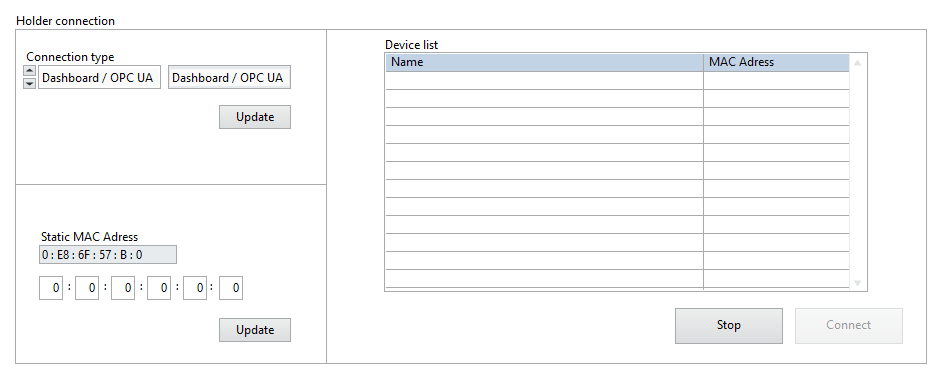
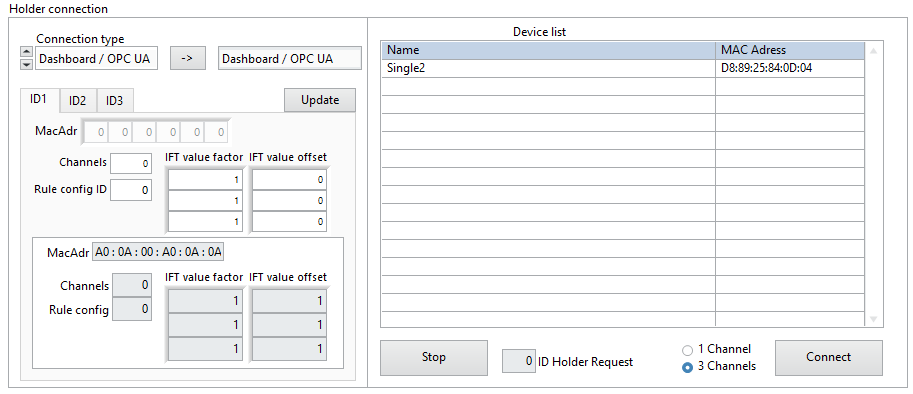
Updated till after modes

Changed region(s): [[0.0, 0.0, 1.0, 1.0]]

diff --git a/C-RIO Dashboard en.md b/C-RIO Dashboard en.md
@@ -52,7 +52,7 @@ The Dashboard contains four tabs: **Stability**, **Breakout detection**, **Raw d
 If the system is connected to a sensory tool holder, the identifier turns blue. After disconnection, it turns white again.
 ![connected_w](assets/disconnected.png)   <------->   ![connected_b](assets/connected.png)
 If no sensory tool holder is connected the fields for name and MAC-Address will be empty. When connected to a sensory tool holder the name and MAC-Address will show until disconnection.
-![connected_w](assets/disconnected-name.png)   <------->   ![connected_b](assets/connected-name.png)
+![connected_name_w](assets/disconnected-name.png)   <------->   ![connected_name_b](assets/connected-name.png)
 
 ### System Tab 	
 
@@ -84,53 +84,48 @@ This tab shows information about the CAN messages send between the system and th
 
 #### Connection types
 
+On the left side you can choose the connection type you want to use with the drop down menu. On the right side you can see the momentary active type. By pressing the "->" button between these two you can change the active type to the chosen type.
 ![connection_type](assets/connection_type.png)
+You can chose if you are using an one or 3 channel holder with the radio buttons below the list of found holders, with the exception of the "Static / DI" mode. Note that if you use the three channel option with a holder which only has one channel the other two channels will be useless signals from not connected PINs inside the holder. On the left side of the radio buttons you can see if a static connection request is set by the hardware connected digital inputs of the SPU.
+![channel_numbers](assets/channel_numbers.png)
 
 ##### Dashboard / OPC UA
 
-With this mode you can select the STH of your choice from the "Device list" and press “Connect”. With  “Stop”, you can disconnect from the STH. After disconnection the  Dashboard needs a few seconds before it starts searching for STHs again.
+With this mode you can select the STH of your choice from the "Device list" and press “Connect”. With  “Stop”, you can disconnect from the STH. After disconnection the Dashboard needs a few seconds before it starts searching for STHs again.
 
 ![halterauswahl](assets/Holder_Connection.png)
 
 ##### Static / DI
 
-In this connection mode you can define one static MAC-Address. Every holder has his own unique address. This address is shown on the right side of the device list. If this mode is selected and the holder with the defined MAC-Address is in range the system will automatically connect to this holder.
-
+In this connection mode you can define static MAC-Addresses. Every holder has his own unique address. This address is shown on the right side of the device list. If this mode is selected, the digital input on the hardware is set to "1" and the holder with the defined MAC-Address is in range the system will automatically connect to this holder.
+Up to three holders can be defined and connected via there digital inputs. The fields for configuration of the static connection mode can be found below the connection-mode selection.
 ![mac](assets/MAC_Adress.png)
-
-In newer versions of the Dashboard it is possible to connect to up to 3 different static MAC-Addresses. Which of the 3 defined holders is to be connected can be chosen by using the digital input port 6&7 of the SPU.
-
-![mac-new](assets/Connection_Holder.png)
-
+There are three tabs, one for each of the defined holders to configure. The upper part is used to change the parameters, the lower part (the one with the grey background) shows the momentary active state of the configuration. To write the changed configuration into the active part press the "Update" button on the top right. 
+The "MacAdr" is the MAC-Address of the holder you want to chose. You can see the Address on the right column of the holder list. With "Channels" you can define how many channels the holder has. If there is anything beside "1" inside this box it will take it that the holder has thee channels. With a "1" the SPU will connect to it as a holder with one channel. The "Rule config ID" box can be used to set a predefined ruling configuration to be used when connecting to this holder. With a "0" it will use the parameters which are set in the "Stability" tab at the moment. With the "IFT value factor" and the "IFT value offset" you can adapt the calculated IFT-value.
 ##### First available /DI
 
-In this mode the system will connect to the first holder it finds within its range. 
-
-##### Recording of multiple channels
-
-In newer versions of the Dashboard it is possible to record multiple channels simultaneously. (Given that the connected tool holder also is able to record multiple channels.) To choose between 1 and 3 channels use the radio button below the connection type drop down list.
+In this mode the system will connect to the first holder it finds within its range. When the digital input to enable the ruling is set.
 
 #### Configuration of tools and processes
 
+In the system tab you can see 2 additional tabs used to load preset configurations called "Rule Engine configs" and "Sensor configs". Pressing the "Load Rule" Button will load and apply the chosen configuration file. With this function you can define your parameters and load them via the press of a button. This has the advantage that you don't have to manually change all the parameters of the SPU and can use different defined configurations for different holders with different processes to be used in.
+![rule-config](assets/Rule_Engine_Config.PNG)
+
+![sensor-config](assets/Sensor_Config.PNG)
+
 **<u>IN DEVELOPMENT!!!!</u>**
+The rules and sensor configs can be edited via the following link:
+http://192.168.1.115:8000/MainConfig.html
+The configuration is working, but the design and user friendliness is **still in development!**
 
-In the system tab you can see 2 additional tabs used to load preset configurations called "Rule Engine confis" and "Sensor configs". With a press of the "Load config from USB" you can load then configuration file from a connected USB-Stick or a Micro-SD Card (Formatting ext4) into the SPU Unit. The XML Files with a predefined structure can be used to configure the rule engine and/or the sensory tool holder. Pressing the "Load config" Button will load and apply the chosen configuration file. With this function you can predefine your parameters and load them via the press of a button. This has the advantage that you don't have to manually change all the parameters after a reset of the SPU or change of process.
-
-A possible example looks like this:
-
-A sensory tool holder with a defined MAC address, single channel measurement, and Connection Type 1 (Dashboard / OPC UA = 0, Static / DI = 1, First available / DI = 2), which corresponds to an automatic connection, is defined in the configuration file. Additionally, a stability Rule Engine with all parameters for the corresponding cutting process and the respective Rule config ID 5 is set for this tool holder. If this Rule Engine ID is also loaded, the values contained in it will be inserted in the stability tab.
-
-**Currently, the feature is in the development phase**, so it is not yet possible to directly assign the respective sensory tools to assigned lines of tools for automatic tool selection based on digital inputs.
-
-![rule-config](assets/Rule Engine Config.PNG)
-
-![sensor-config](assets/Sensor Config.PNG)
-
+#### OPC-UA Server Address
+On the right side, beside the rule and sensor configs you can find the OPCUA-Server address of the SPU which you need if you want to connect via OPCUA with the SPU.
+![opcua](assets/opcua.png)
 ### Raw Data View Tab
 
 ![raw](assets/RawDataView.PNG)
 
-If this tab is chosen it will show the raw data of the connected sensory tool holder, depending if 1 or 3 channels were chosen, This is used if you want to plot the raw not computed signals of the tool holder.
+If this tab is chosen it will show the raw data of the connected sensory tool holder, depending if 1 or 3 channels were chosen you can see 1 or 3 signals. This is used if you want to plot the raw not computed signals of the tool holder. If you right-click the y-axis you can change from auto scale mode to defined values. 
 
 ### Breakout detection Tab
 
@@ -204,9 +199,12 @@ This graph shows the Sens and the Active lines. These are digital  information. 
 
 ![active](assets/active.png)
 
+#### Controls for the rule
+There are two buttons at the bottom of the screen. The "freigabe Regler" button can be used like the digital input which activates the rule engine. If you press the button it will change the name to "Regler freigegeben" and the "Sens" graph will change to 1. If you press it again it will change it's name back and the "Sens" graph will go back to 0. The "Reset Regler" button is only needed if the system is used in the "stop" mode.
+
 ## Stability-Parameters 					  			
 
-Depending on which mode is set active, different parameters can be  changed. To change said parameters to new values, press the "update"  Button on the bottom (with "Window length" being the only exception in  "Watch" mode).
+Depending on which mode is set active, different parameters can be  changed. To change said parameters to new values, press the "update" button on the bottom (with "Window length" being the only exception in  "Watch" mode).
 
 ![parameter](assets/parameter.png)
 
@@ -240,19 +238,14 @@ A value of e.g. 0.01 %/ms would increase the feed rate and/or spindle speed to 1
 
 {0-100%} Setpoint for feed rate
 
-This parameter is used in the modes “Stability 2 Level” and “Direct  output”. This value defines the override applied to the machine tool  control system, the moment the ICOtronic system activates the feed rate  adaption of the machine.
-
+This parameter is used in the modes "Stop", “Stability reduction”, “Stability 2 Level” and “Direct  output”. In “Stability 2 Level” and “Direct output” this value defines the override applied to the machine tool  control system, the moment the ICOtronic system activates the feed rate  adaption of the machine.
+In "Stability reduction" this value defines the minimal feed rate override, which is sent to the machine by the ICOtronic system. The reduction cannot fall below this value.
 ### Spindle override 		  			
 
 {0-100%} Setpoint for spindle speed
 
-This parameter is used in “Stability 2 Level” and “Direct output”.  This value defines the override applied to the machine tool control  system, the moment the ICOtronic system activates the spindle speed  reduction of the machine.
-
-### Feed override min 				
-
-{0-100%} Setpoint for minimum feed rate
-
-This parameter is used in the “Stability reduction” mode. This value  defines the minimal feed rate override, which is sent to the machine by  the ICOtronic system. The reduction cannot fall below this value.
+This parameter is used in  "Stop", “Stability reduction”, “Stability 2 Level” and “Direct output”.  In “Stability 2 Level” and “Direct output” this value defines the override applied to the machine tool control  system, the moment the ICOtronic system activates the spindle speed reduction of the machine.
+In "Stability reduction" this value defines the minimal feed rate override, which is sent to the machine by the ICOtronic system. The reduction cannot fall below this value.
 
 ### Feed reduction factor 					
 
@@ -265,12 +258,6 @@ As an example: A value of 5 % for "Feed reduction factor" results in continuous 
 Reduction step 1: Reduction from 100 % to 95 %
 Reduction step 2: Reduction from 95 % to 90 %
 …and so on.
-
-### Spindle override min 			  			
-
-{0-100%} Setpoint for minimum spindle speed
-
-This parameter is used in the “Stability reduction” mode. This value  defines the minimal spindle speed override, which is sent to the machine by the ICOtronic system. The reduction cannot fall below this value.
 
 ### Spindle reduction factor 				
 
@@ -289,6 +276,7 @@ Reduction step 2: Reduction from 95 % to 90 %
 {ms} deadtime
 
 This parameter is only used in the “Stability reduction” mode. This  value equals the time in ms the system pauses before checking if it  should reduce the spindle speed and feed rate again. The smaller this  value, the quicker the ICOtronic system reduces the speed. As a  reference value for first tests 300 ms can be mentioned. This means,  each 300 ms feed rate and/or spindle speed are adapted as long as the  IFT value exceeds the threshold.
+**<u>Note:</u>** if this value is to low it can happen that the machine needs longer to set the new parameters than the system waits to see if something changed. This would have the problem that even it the process stabilises the machine still changes values from the last instance and the process gets unstable again. 
 
 Examples:
 
@@ -303,17 +291,23 @@ Deadtime: 300ms
 
 ![deadtime2](assets/deadtime2.png)
 
+### Channels 		  			
+
+{-} channels
+
+If you have a three channel holder you can change the channel which is used to calculate the IFT value with this drop down menu. You can use any of the three channels or multiple channels at once. If you use a one channel holder this parameter will be ignored and the IFT value calculated with the one available channel.
+
 ### IFT value factor 		  			
 
 {-} IFT value factor
 
-This is a multiplicative factor for the IFT-Value in the  corresponding diagram and for the analogue port number 0 of the SPU (NI  9263). With it, the signal can be set to a desired value.
+This is a multiplicative factor for the IFT-Value in the corresponding diagram and for the analogue port number 0 of the SPU (NI  9263). With it, the signal can be set to a desired value. The values for the different channels can be changed separately.
 
 ### IFT value offset 					
 
 {-} IFT value offset
 
-This is an additive value, to the IFT-Value in the corresponding  diagram and for the analogue port number 0 of the SPU (NI9263). With it, the signal can be set to a desired offset. 
+This is an additive value, to the IFT-Value in the corresponding  diagram and for the analogue port number 0 of the SPU (NI9263). With it, the signal can be set to a desired offset. The values for the different channels can be changed separately.
 
 ## Modes 					
 
@@ -336,6 +330,10 @@ This is one of the two modes which can be used to control the  machining process
 ### DIRECT OUTPUT 					  			
 
 This mode is primary used while installing the system. Beside the  “IFT value factor” and the “IFT value offset”, the “Feed override” and  “Spindle override” can be changed. The values given for the overrides  will be directly sent to the output, independent from the IFT-Value.  Therefore, a specific spindle speed or feed rate can be applied without  any sensor-input or activation signal from the machine-control-system  (M-command). This mode should be used to check if the connection  between the SPU and the machine-control-system is working as designed. 
+
+### STOP 					  			
+
+This mode works nearly identical to "stability 2 level" mode. The only difference is that the system doesn't use the lower threshold. If the system changed the overrides these overrides will stay active until ether the digital input of rule enable is reset to 0 or the "Reset Regler" button was pressed.
 
 ## Example use-case 			  			
 
